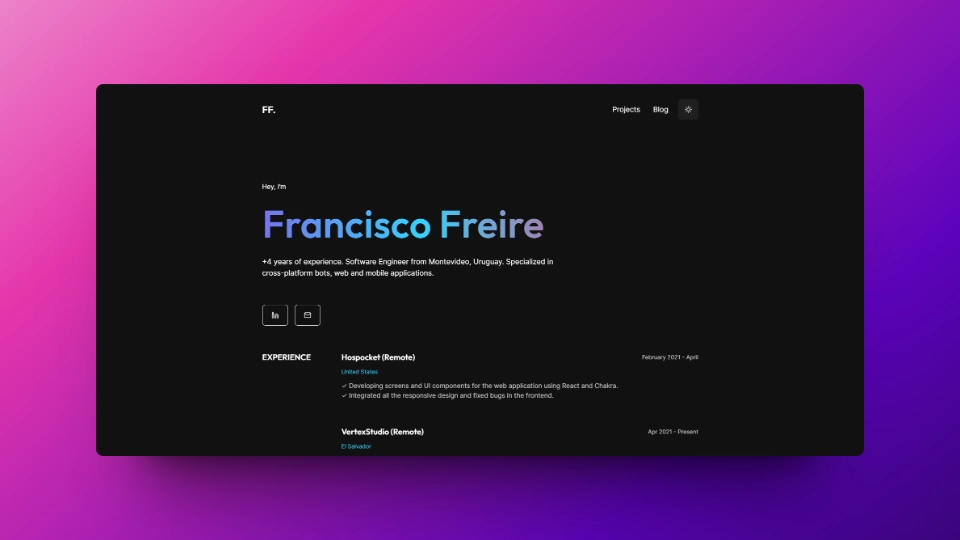
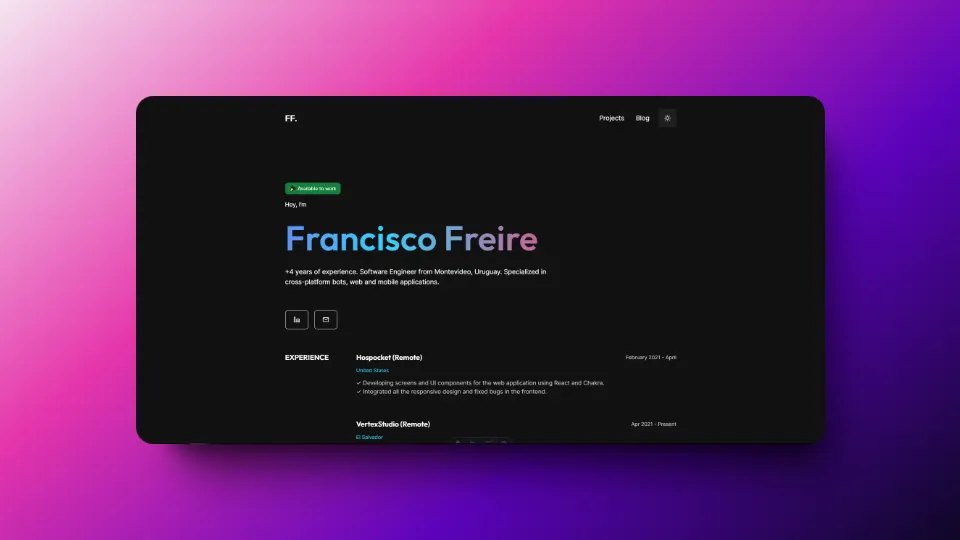
Design improved

diff --git a/src/styles/custom-styles.css b/src/styles/custom-styles.css
@@ -1,34 +1,72 @@
-/* gradient heading */
+/* Enhanced gradient heading with modern styling */
 .main-heading {
   display: inline-block;
   margin: 2rem 0;
   font-style: normal;
-  font-weight: 600;
+  font-weight: 700;
   background: linear-gradient(
-    89.81deg,
-    #9845e8 -1.72%,
-    #33d2ff 54.05%,
-    #dd5789 99.78%
+    45deg,
+    #ff6b6b 0%,
+    #4ecdc4 50%,
+    #45b8ac 100%
   );
   -webkit-background-clip: text;
   -webkit-text-fill-color: transparent;
   background-clip: text;
   text-fill-color: transparent;
-  background-size: 150% 150%;
-  animation: gradient 15s ease infinite;
-  line-height: 1.2;
+  background-size: 400% 400%;
+  animation: gradient 6s ease infinite;
+  line-height: 1.1;
+  letter-spacing: -0.02em;
+  text-shadow: 0 0 80px rgba(78, 205, 196, 0.6);
+  filter: drop-shadow(0 0 0.75rem rgba(78, 205, 196, 0.3));
 }
 
+/* Smooth gradient animation */
 @keyframes gradient {
   0% {
     background-position: 0% 50%;
   }
-
   50% {
     background-position: 100% 50%;
   }
-
   100% {
     background-position: 0% 50%;
   }
+}
+
+/* Enhanced link hover effects */
+a:not(.footer-icons):hover {
+  background: linear-gradient(
+    45deg,
+    #ff6b6b 0%,
+    #4ecdc4 50%,
+    #45b8ac 100%
+  );
+  -webkit-background-clip: text;
+  -webkit-text-fill-color: transparent;
+  background-clip: text;
+  transition: all 0.4s cubic-bezier(0.4, 0, 0.2, 1);
+  transform: translateY(-2px);
+  filter: brightness(1.2);
+}
+
+/* Smooth transitions for all interactive elements */
+a, button, .theme-button {
+  transition: all 0.3s ease;
+}
+
+/* Card hover effects */
+.project-card-hover {
+  transition: all 0.4s cubic-bezier(0.4, 0, 0.2, 1);
+  backdrop-filter: blur(8px);
+  background: rgba(255, 255, 255, 0.05);
+  border: 1px solid rgba(255, 255, 255, 0.1);
+}
+
+.project-card-hover:hover {
+  transform: translateY(-8px) scale(1.01);
+  box-shadow: 0 20px 40px -15px rgba(0, 0, 0, 0.4);
+  background: rgba(255, 255, 255, 0.1);
+  border-color: rgba(255, 255, 255, 0.2);
 }

diff --git a/src/styles/style.css b/src/styles/style.css
@@ -14,7 +14,7 @@
     @apply bg-light dark:bg-dark;
   }
   .container {
-    @apply max-w-[1112px] mx-auto px-4;
+    @apply max-w-[1112px] mx-auto px-4 relative z-10;
   }
   h1,
   h2,
@@ -36,15 +36,15 @@
     @apply font-inter;
   }
   .footer-icons {
-    @apply dark:text-light flex items-center border border-dark dark:border-light p-4 rounded-lg justify-center;
+    @apply dark:text-light flex items-center border border-dark dark:border-light p-4 rounded-lg justify-center backdrop-blur-sm bg-white/5 shadow-lg transition-all duration-300;
   }
   .footer-icons:hover {
-    @apply rounded-sm;
+    @apply rounded-sm transform scale-110 shadow-xl border-blue;
   }
   .theme-button {
-    @apply dark:text-light rounded-lg p-4 ml-2 bg-slate-100 dark:bg-[#202020];
+    @apply dark:text-light rounded-lg p-4 ml-2 bg-slate-100 dark:bg-[#202020] shadow-md transition-all duration-300;
   }
   .theme-button:hover {
-    @apply dark:bg-[#151515];
+    @apply dark:bg-[#151515] shadow-lg transform scale-105;
   }
 }
